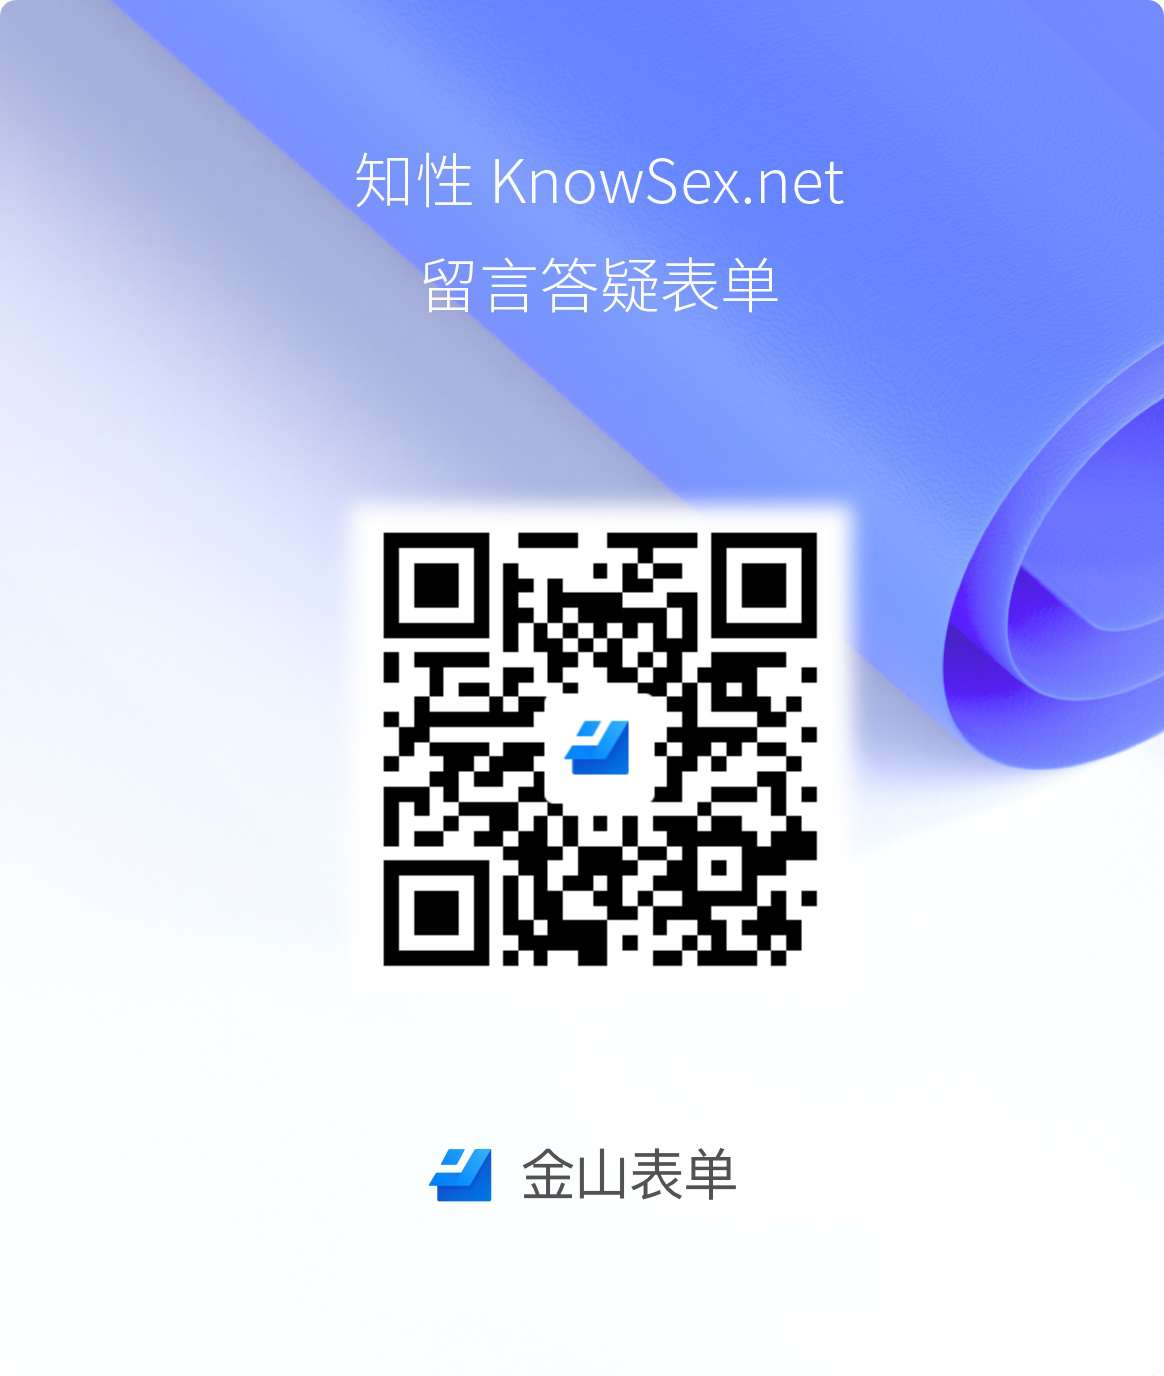
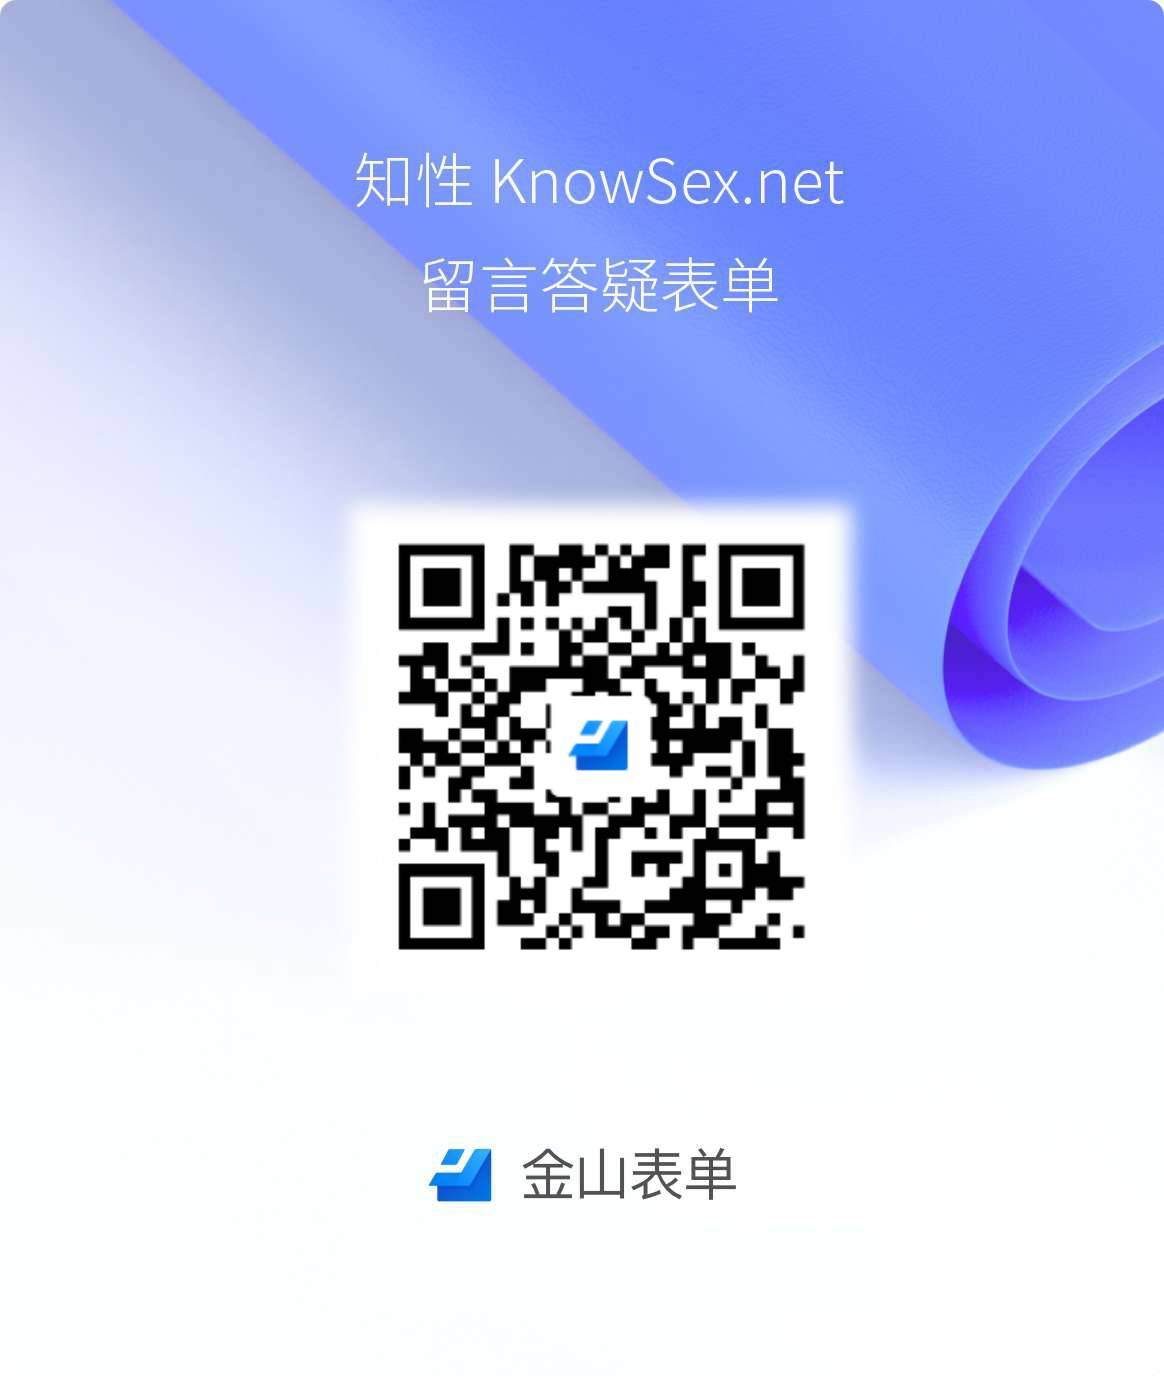
更新表单链接和二维码。

Changed region(s): [[0.3093, 0.375, 0.7113, 0.7188]]

diff --git a/sub/Communicate_with_KnowSex.html b/sub/Communicate_with_KnowSex.html
@@ -85,7 +85,8 @@
 </div>
 <div style="box-shadow: 5px 0 0 rgba(0, 0, 0, 0.5);"></div>
 <div class="main">
-<div class="mailMain" style="opacity: .5;pointer-events: none;">
+<div class="mailMain">
+    <!-- style="opacity: .5;pointer-events: none;" -->
     <div class="tip">
         <p><strong style="color:brown">医学声明：</strong></p>
         <p style="font-weight:300">囿于团队成员知识所限，知性（KnowSex）提供的内容不能被解读为试图给予或提供特定医疗意见，或属于医疗临床实务的一部分，不能取代医护专业人士的建议和药品说明书。</p>
@@ -104,9 +105,9 @@
     
     <p>您也可以填写在线表单进行提问，可通过下方按钮或识别二维码进行填写。</p>
     
-    <p><a class="btn btn-outline-secondary" href="https://f.kdocs.cn/w/bnrcQlLa/"  target="_self" role="button">填写表单</a></p>
+    <p><a class="btn btn-outline-secondary" href="https://f.kdocs.cn/w/SYut9a03/"  target="_self" role="button">填写表单</a></p>
     <div class="img-box">
-        <img src="img/kdocs.jpg" alt="表单二维码" class="img-thumbnail" style="width:100%;max-width:500px;margin:auto">
+        <img src="img/kdocs.jpg?20220806" alt="表单二维码" class="img-thumbnail" style="width:100%;max-width:500px;margin:auto">
     </div>    
 </div>
 
